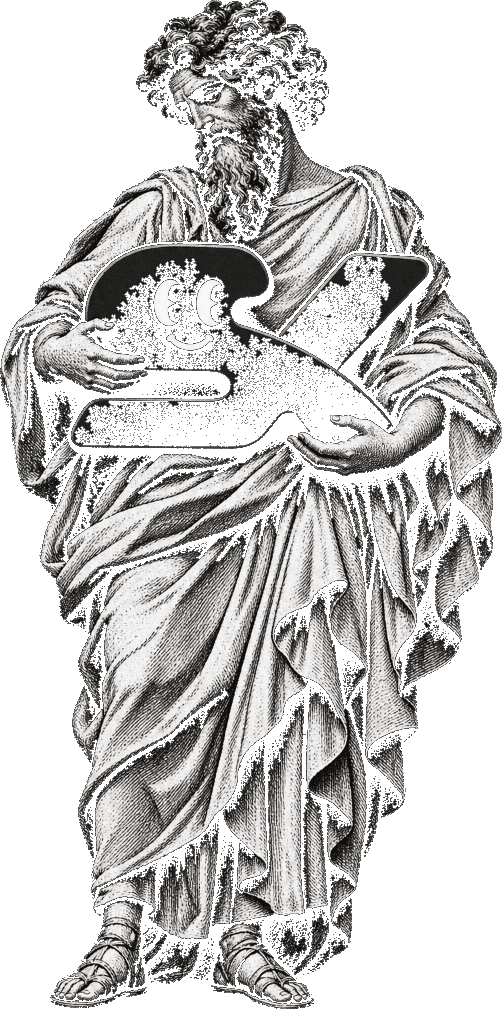
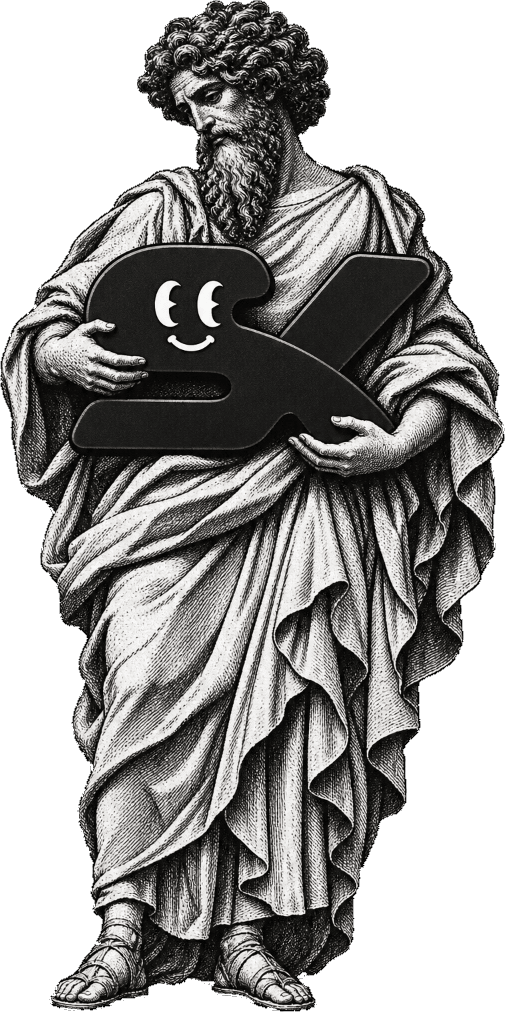
fix: refina recorte da estatua sem erodir linhas pretas e reposiciona anotacao manuscrita

diff --git a/src/pages/GptAstra.tsx b/src/pages/GptAstra.tsx
@@ -473,7 +473,7 @@ export default function GptAstraPage() {
             <div className="hero-art-stage">
               {/* Anotação estilo manuscrito com seta curvada */}
               <motion.div
-                className="hero-handwritten-wrap"
+                className="hero-handwritten-wrap hero-handwritten-astra"
                 initial={{ opacity: 0, scale: 0.8, rotate: -4 }}
                 animate={{ opacity: 1, scale: 1, rotate: 0 }}
                 transition={{ duration: 0.8, delay: 0.45, ease: [0.22, 1, 0.36, 1] }}

diff --git a/src/index.css b/src/index.css
@@ -3449,6 +3449,19 @@ h2 em {
   pointer-events: none;
 }
 
+.hero-handwritten-astra {
+  top: 15px;
+  right: auto;
+  left: -15px;
+}
+
+@media (max-width: 900px) {
+  .hero-handwritten-astra {
+    left: 10px;
+    top: 5px;
+  }
+}
+
 .hero-handwritten-text {
   font-family: 'Caveat', cursive;
   font-size: 24px;
